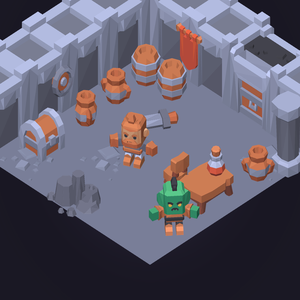
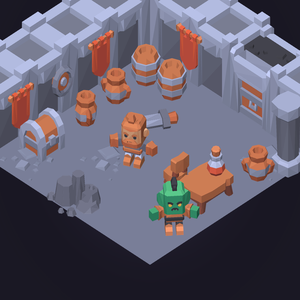
Dungeon escape v3 : le code compte les bannières au lieu des pots
Claude-Session: https://claude.ai/code/session_01BXK9ZhaSb4fyQX3kTRBeFu

Changed region(s): [[0.27, 0.09, 0.39, 0.27], [0.03, 0.27, 0.12, 0.42]]

diff --git a/exemples/ru.html b/exemples/ru.html
@@ -41,7 +41,7 @@
 <img src="dungeon_escape.png" alt="Dungeon escape" loading="lazy" width="300" height="300">
 <div><h2>Dungeon escape</h2>
 <p>Эскейп-игра в изометрической темнице: обыщи комнату, разбей горшки, разгадай код сундука и найди 3 золотые монеты, чтобы купить ключ у орка. С инвентарём, таймером и текстами на 9 языках.</p>
-<a href="dungeon_escape.zip" download>⬇ Скачать проект (418 КБ)</a></div>
+<a href="dungeon_escape.zip" download>⬇ Скачать проект (423 КБ)</a></div>
 </article>
 <article class="carte">
 <img src="candy_match.png" alt="Candy match" loading="lazy" width="300" height="300">

diff --git a/exemples/ja.html b/exemples/ja.html
@@ -41,7 +41,7 @@
 <img src="dungeon_escape.png" alt="Dungeon escape" loading="lazy" width="300" height="300">
 <div><h2>Dungeon escape</h2>
 <p>アイソメトリックの地下ろうから脱出するゲーム：部屋を調べ、つぼをわり、宝箱の暗号をといて、金貨を3枚集めてオークからカギを買おう。持ち物、タイマー、9言語のテキストつき。</p>
-<a href="dungeon_escape.zip" download>⬇ プロジェクトをダウンロード (418 KB)</a></div>
+<a href="dungeon_escape.zip" download>⬇ プロジェクトをダウンロード (423 KB)</a></div>
 </article>
 <article class="carte">
 <img src="candy_match.png" alt="Candy match" loading="lazy" width="300" height="300">

diff --git a/exemples/es.html b/exemples/es.html
@@ -41,7 +41,7 @@
 <img src="dungeon_escape.png" alt="Dungeon escape" loading="lazy" width="300" height="300">
 <div><h2>Dungeon escape</h2>
 <p>Un escape game en una mazmorra isométrica: registra la sala, rompe vasijas, descifra el código del cofre y encuentra 3 monedas de oro para comprarle la llave al orco. Con inventario, cronómetro y textos en 9 idiomas.</p>
-<a href="dungeon_escape.zip" download>⬇ Descargar el proyecto (418 KB)</a></div>
+<a href="dungeon_escape.zip" download>⬇ Descargar el proyecto (423 KB)</a></div>
 </article>
 <article class="carte">
 <img src="candy_match.png" alt="Candy match" loading="lazy" width="300" height="300">

diff --git a/exemples/fr.html b/exemples/fr.html
@@ -41,7 +41,7 @@
 <img src="dungeon_escape.png" alt="Dungeon escape" loading="lazy" width="300" height="300">
 <div><h2>Dungeon escape</h2>
 <p>Un escape game dans un cachot en vue iso : fouille la pièce, brise des pots, résous le code du coffre et trouve 3 pièces d'or pour acheter la clé à l'orc. Avec inventaire, chronomètre et textes en 9 langues.</p>
-<a href="dungeon_escape.zip" download>⬇ Télécharger le projet (418 Ko)</a></div>
+<a href="dungeon_escape.zip" download>⬇ Télécharger le projet (423 Ko)</a></div>
 </article>
 <article class="carte">
 <img src="candy_match.png" alt="Candy match" loading="lazy" width="300" height="300">

diff --git a/exemples/de.html b/exemples/de.html
@@ -41,7 +41,7 @@
 <img src="dungeon_escape.png" alt="Dungeon escape" loading="lazy" width="300" height="300">
 <div><h2>Dungeon escape</h2>
 <p>Ein Escape-Game im isometrischen Kerker: Durchsuche den Raum, zerbrich Töpfe, knacke den Code der Truhe und finde 3 Goldmünzen, um dem Ork den Schlüssel abzukaufen. Mit Inventar, Stoppuhr und Texten in 9 Sprachen.</p>
-<a href="dungeon_escape.zip" download>⬇ Projekt herunterladen (418 KB)</a></div>
+<a href="dungeon_escape.zip" download>⬇ Projekt herunterladen (423 KB)</a></div>
 </article>
 <article class="carte">
 <img src="candy_match.png" alt="Candy match" loading="lazy" width="300" height="300">

diff --git a/exemples/it.html b/exemples/it.html
@@ -41,7 +41,7 @@
 <img src="dungeon_escape.png" alt="Dungeon escape" loading="lazy" width="300" height="300">
 <div><h2>Dungeon escape</h2>
 <p>Un escape game in una prigione isometrica: fruga nella stanza, rompi i vasi, scopri il codice del forziere e trova 3 monete d'oro per comprare la chiave dall'orco. Con inventario, cronometro e testi in 9 lingue.</p>
-<a href="dungeon_escape.zip" download>⬇ Scarica il progetto (418 KB)</a></div>
+<a href="dungeon_escape.zip" download>⬇ Scarica il progetto (423 KB)</a></div>
 </article>
 <article class="carte">
 <img src="candy_match.png" alt="Candy match" loading="lazy" width="300" height="300">

diff --git a/exemples/pt.html b/exemples/pt.html
@@ -41,7 +41,7 @@
 <img src="dungeon_escape.png" alt="Dungeon escape" loading="lazy" width="300" height="300">
 <div><h2>Dungeon escape</h2>
 <p>Um escape game numa masmorra isométrica: vasculhe a sala, quebre potes, descubra o código do baú e encontre 3 moedas de ouro para comprar a chave do orc. Com inventário, cronômetro e textos em 9 idiomas.</p>
-<a href="dungeon_escape.zip" download>⬇ Baixar o projeto (418 KB)</a></div>
+<a href="dungeon_escape.zip" download>⬇ Baixar o projeto (423 KB)</a></div>
 </article>
 <article class="carte">
 <img src="candy_match.png" alt="Candy match" loading="lazy" width="300" height="300">

diff --git a/exemples/en.html b/exemples/en.html
@@ -41,7 +41,7 @@
 <img src="dungeon_escape.png" alt="Dungeon escape" loading="lazy" width="300" height="300">
 <div><h2>Dungeon escape</h2>
 <p>An isometric dungeon escape game: search the room, break pots, crack the chest code and find 3 gold coins to buy the key from the orc. With an inventory, a timer and texts in 9 languages.</p>
-<a href="dungeon_escape.zip" download>⬇ Download the project (418 KB)</a></div>
+<a href="dungeon_escape.zip" download>⬇ Download the project (423 KB)</a></div>
 </article>
 <article class="carte">
 <img src="candy_match.png" alt="Candy match" loading="lazy" width="300" height="300">

diff --git a/exemples/zh.html b/exemples/zh.html
@@ -41,7 +41,7 @@
 <img src="dungeon_escape.png" alt="Dungeon escape" loading="lazy" width="300" height="300">
 <div><h2>Dungeon escape</h2>
 <p>等距视角的地牢密室逃脱：搜查房间、打碎罐子、破解宝箱密码，找到 3 枚金币向兽人换钥匙。带有物品栏、计时器和 9 种语言的文字。</p>
-<a href="dungeon_escape.zip" download>⬇ 下载项目 (418 KB)</a></div>
+<a href="dungeon_escape.zip" download>⬇ 下载项目 (423 KB)</a></div>
 </article>
 <article class="carte">
 <img src="candy_match.png" alt="Candy match" loading="lazy" width="300" height="300">
